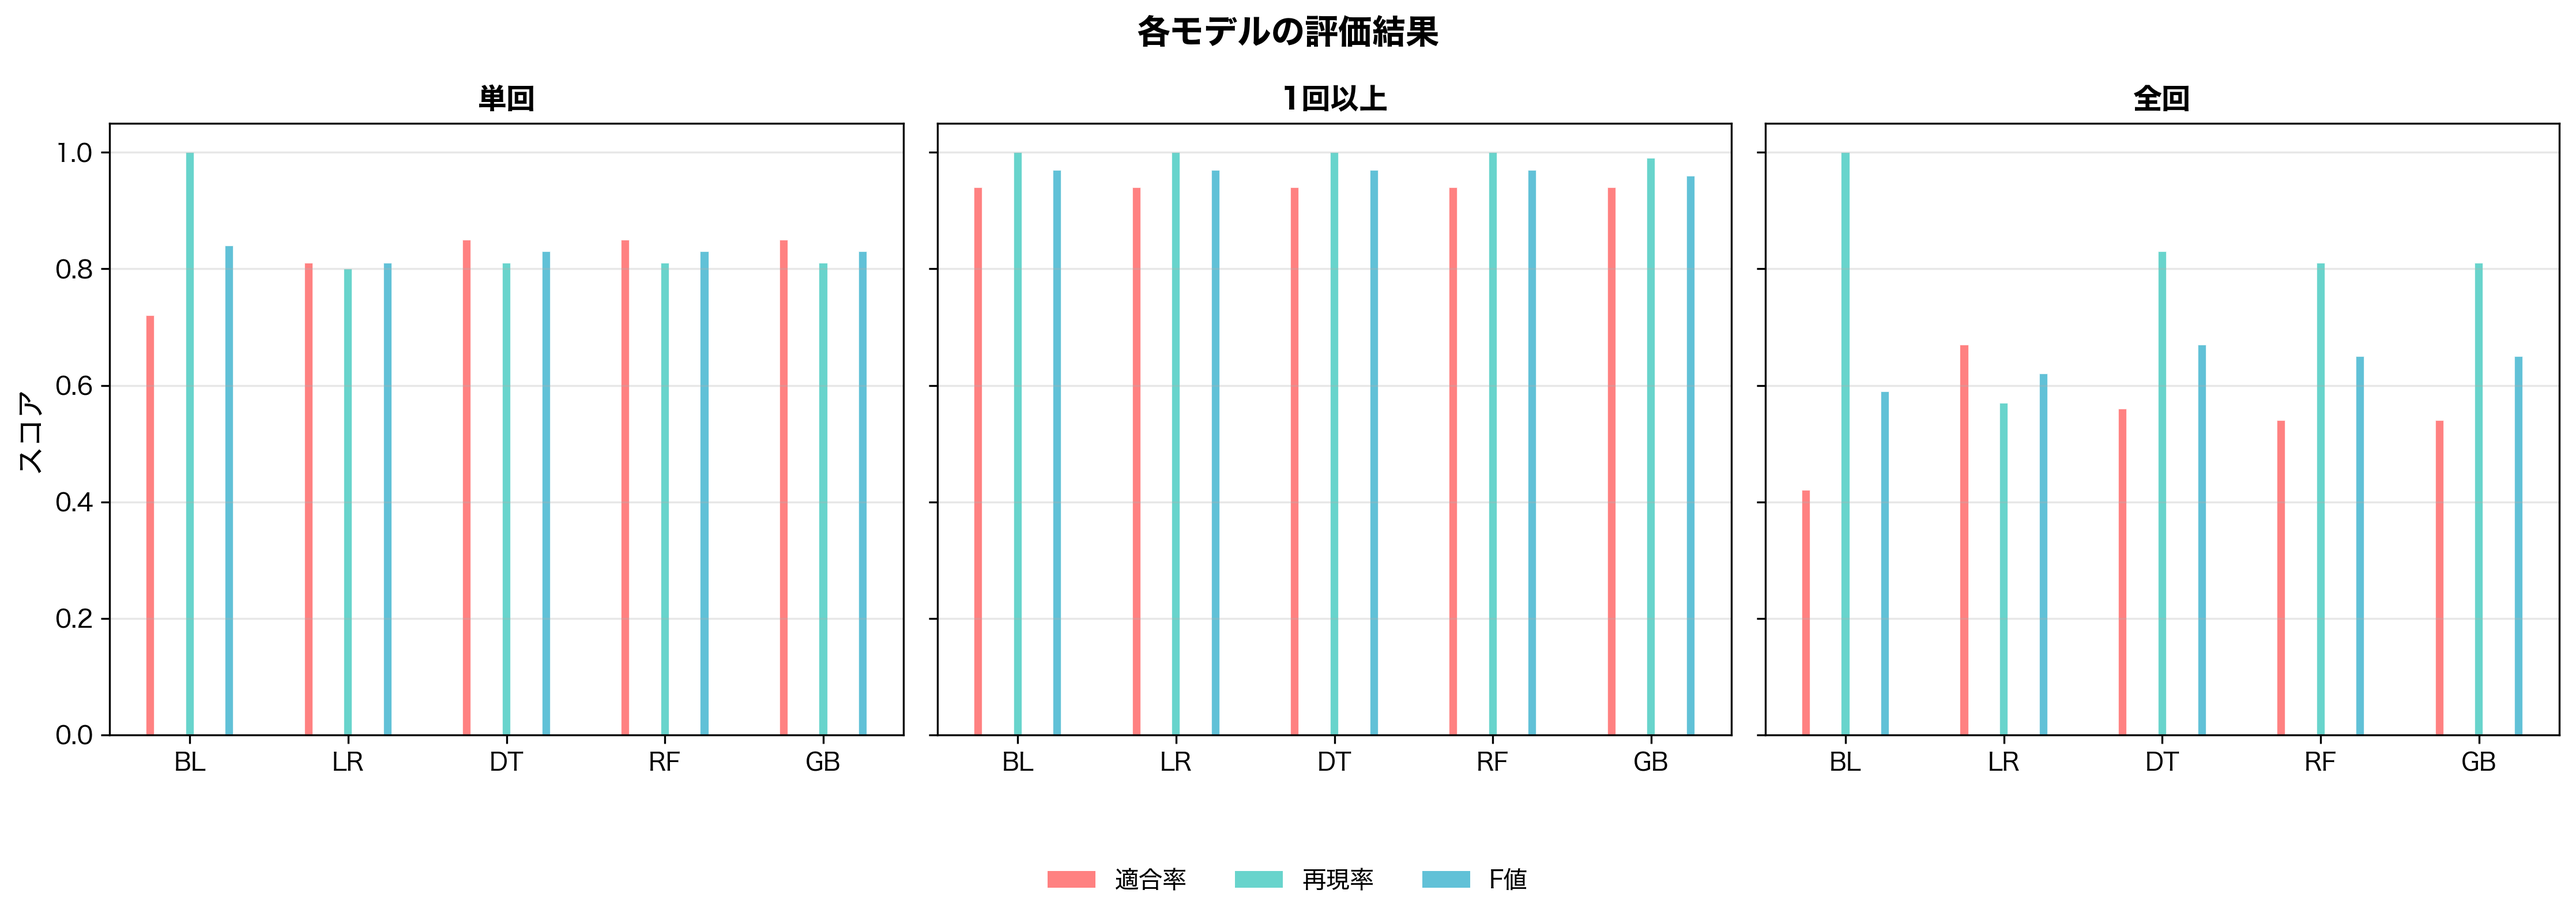
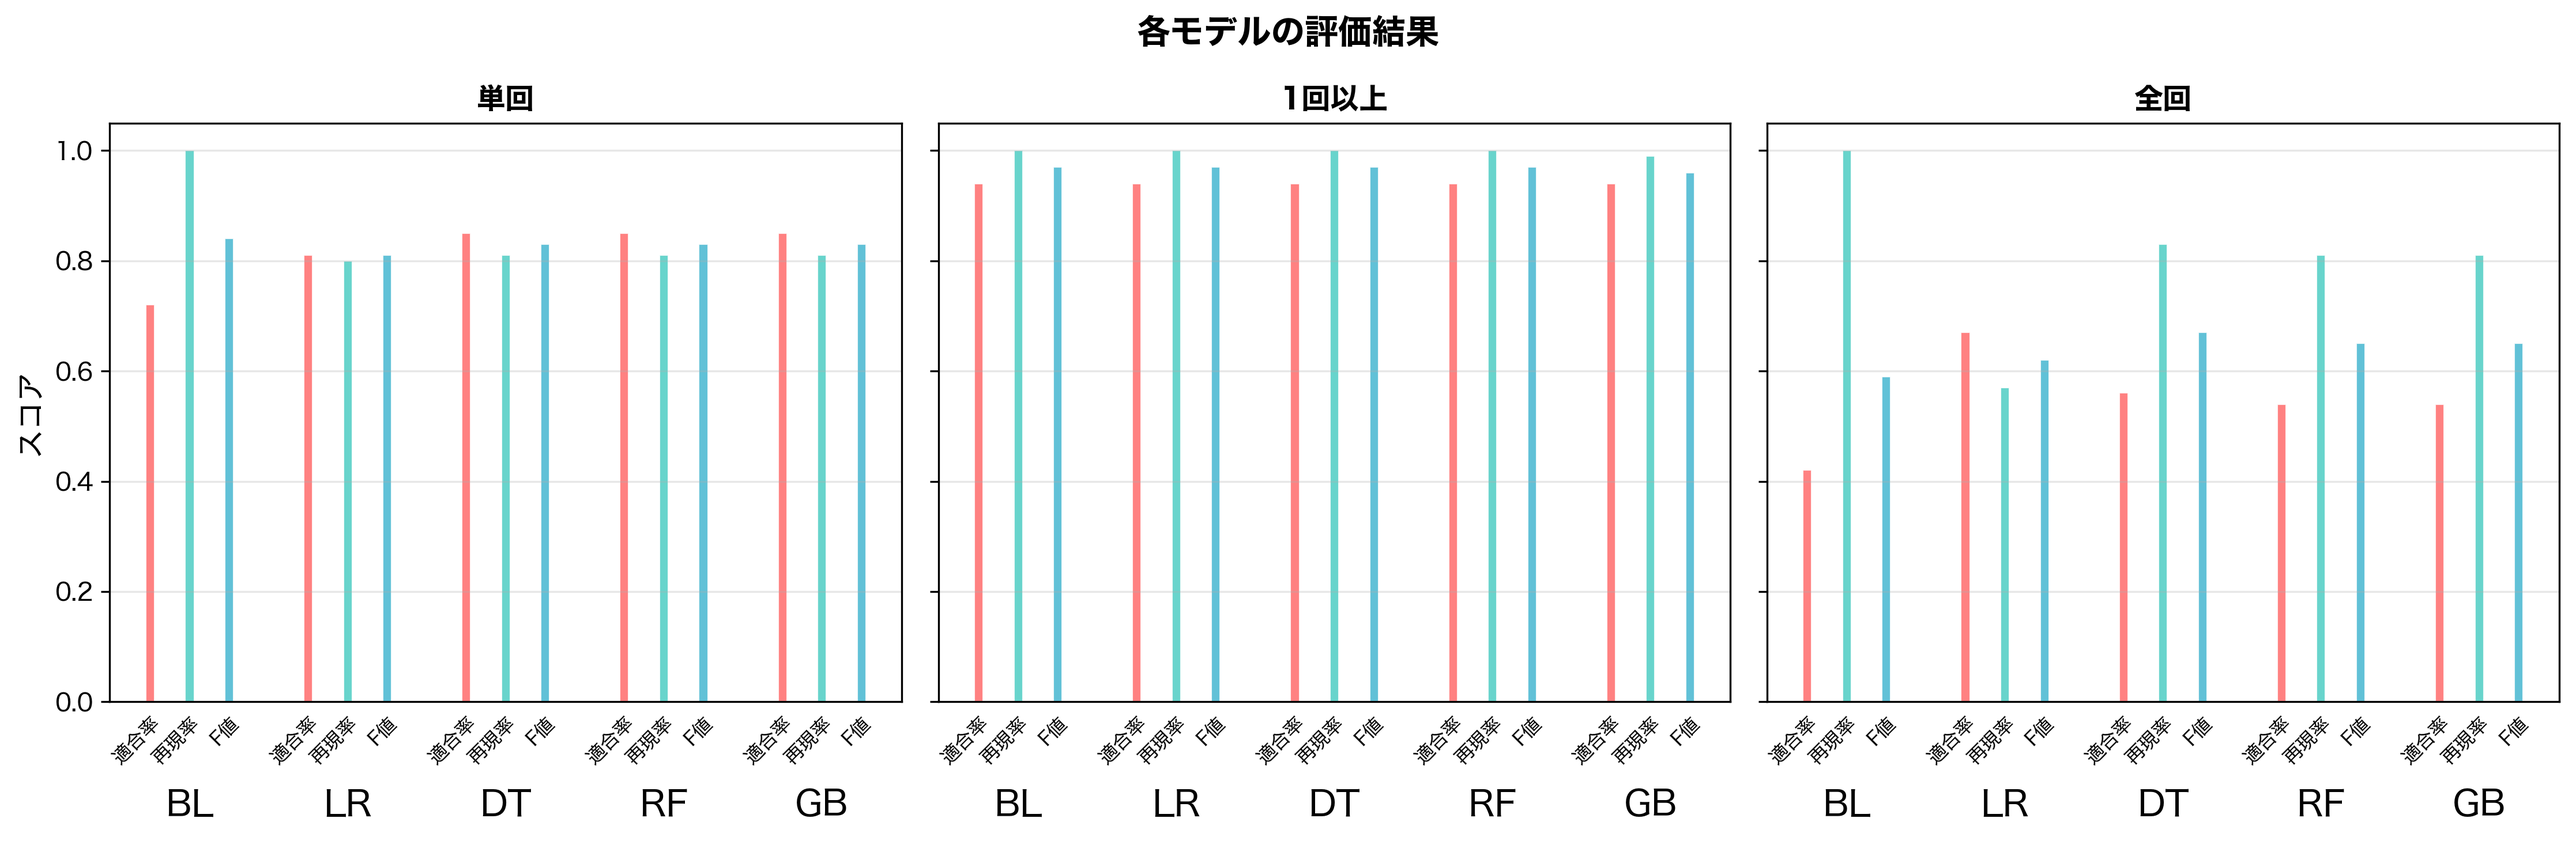
適合率とかが斜めるようにした

diff --git a/speedUpItem/plot_metrics_bar.py b/speedUpItem/plot_metrics_bar.py
@@ -17,7 +17,7 @@ import argparse
 from pathlib import Path
 
 import matplotlib.pyplot as plt
-import matplotlib.patches as mpatches
+import matplotlib.transforms as mtransforms
 
 # =============================================================================
 # 貼り付け用データ（compare_models.py の出力をここにコピー）
@@ -132,7 +132,7 @@ METRIC_LABELS = {
     "f1": "F値",
 }
 
-FIGURE_TITLE = "各モデルの評価結果"
+FIGURE_TITLE = "各モデルの評価結果(適用プロセス)"
 YLABEL = "スコア"
 YLIM = (0.0, 1.05)
 
@@ -141,6 +141,11 @@ METRIC_COLORS = ["#FF6B6B", "#4ECDC4", "#45B7D1"]
 BAR_ALPHA = 0.85
 GROUP_GAP = 1.0
 BAR_WIDTH = 0.22
+BAR_LABEL_FONTSIZE = 8
+BAR_LABEL_ROTATION = 45
+BAR_LABEL_Y = -0.02
+MODEL_LABEL_FONTSIZE = 15
+MODEL_LABEL_Y = -0.15
 
 OUTPUT_DIR = Path(__file__).resolve().parent / "figures"
 OUTPUT_BASENAME = "metrics_bar_all"
@@ -191,7 +196,14 @@ def _validate_scores(
 
 def _build_grouped_bar_data(
     target_scores: dict[str, dict[str, float]],
-) -> tuple[list[float], list[float], list[str], list[str], list[float]]:
+) -> tuple[
+    list[float],
+    list[float],
+    list[str],
+    list[float],
+    list[str],
+    list[str],
+]:
     """1 target 分のグループ化棒グラフ用データを生成する。"""
     n_metrics = len(METRIC_ORDER)
     group_stride = n_metrics + GROUP_GAP
@@ -199,6 +211,7 @@ def _build_grouped_bar_data(
     heights: list[float] = []
     positions: list[float] = []
     bar_colors: list[str] = []
+    bar_metric_keys: list[str] = []
     group_centers: list[float] = []
 
     for group_idx, model_name in enumerate(MODEL_ORDER):
@@ -209,9 +222,50 @@ def _build_grouped_bar_data(
             positions.append(group_start + metric_idx)
             heights.append(target_scores[model_name][metric_key])
             bar_colors.append(METRIC_COLORS[metric_idx])
+            bar_metric_keys.append(metric_key)
 
     tick_labels = [MODEL_LABELS.get(model, model) for model in MODEL_ORDER]
-    return heights, positions, bar_colors, tick_labels, group_centers
+    return heights, positions, bar_colors, group_centers, tick_labels, bar_metric_keys
+
+
+def _add_bar_metric_labels(
+    ax: plt.Axes,
+    positions: list[float],
+    metric_keys: list[str],
+) -> None:
+    """各棒の直下に指標ラベルを付ける（白黒印刷でも区別可能にする）。"""
+    label_transform = mtransforms.blended_transform_factory(ax.transData, ax.transAxes)
+    for pos, metric_key in zip(positions, metric_keys):
+        ax.text(
+            pos,
+            BAR_LABEL_Y,
+            METRIC_LABELS[metric_key],
+            ha="right",
+            va="top",
+            rotation=BAR_LABEL_ROTATION,
+            rotation_mode="anchor",
+            fontsize=BAR_LABEL_FONTSIZE,
+            transform=label_transform,
+        )
+
+
+def _add_model_labels(
+    ax: plt.Axes,
+    group_centers: list[float],
+    model_labels: list[str],
+) -> None:
+    """アルゴリズム名を指標ラベルの下に表示する。"""
+    label_transform = mtransforms.blended_transform_factory(ax.transData, ax.transAxes)
+    for pos, label in zip(group_centers, model_labels):
+        ax.text(
+            pos,
+            MODEL_LABEL_Y,
+            label,
+            ha="center",
+            va="top",
+            fontsize=MODEL_LABEL_FONTSIZE,
+            transform=label_transform,
+        )
 
 
 def plot_metrics_bar(
@@ -229,7 +283,7 @@ def plot_metrics_bar(
         axes = [axes]
 
     for ax, target in zip(axes, TARGET_ORDER):
-        heights, positions, bar_colors, tick_labels, group_centers = (
+        heights, positions, bar_colors, group_centers, tick_labels, bar_metric_keys = (
             _build_grouped_bar_data(metrics_scores[target])
         )
 
@@ -243,8 +297,9 @@ def plot_metrics_bar(
             linewidth=0.5,
         )
 
-        ax.set_xticks(group_centers)
-        ax.set_xticklabels(tick_labels)
+        ax.set_xticks([])
+        _add_bar_metric_labels(ax, positions, bar_metric_keys)
+        _add_model_labels(ax, group_centers, tick_labels)
         target_label = TARGET_LABELS.get(target, target)
         ax.set_title(target_label, fontsize=12, fontweight="bold")
         ax.set_ylim(*YLIM)
@@ -253,20 +308,7 @@ def plot_metrics_bar(
     axes[0].set_ylabel(YLABEL, fontsize=12)
     fig.suptitle(FIGURE_TITLE, fontsize=14, fontweight="bold")
 
-    legend_handles = [
-        mpatches.Patch(facecolor=color, alpha=BAR_ALPHA, label=METRIC_LABELS[metric_key])
-        for metric_key, color in zip(METRIC_ORDER, METRIC_COLORS)
-    ]
-    fig.legend(
-        handles=legend_handles,
-        loc="upper center",
-        bbox_to_anchor=(0.5, 0.02),
-        ncol=len(METRIC_ORDER),
-        frameon=False,
-    )
-
     fig.tight_layout()
-    fig.subplots_adjust(bottom=0.15)
 
     output_dir.mkdir(parents=True, exist_ok=True)
     saved_paths: list[Path] = []

diff --git a/tree-different/plot_metrics_boxplot.py b/tree-different/plot_metrics_boxplot.py
@@ -134,7 +134,7 @@ METRIC_LABELS = {
     "f1": "F値",
 }
 
-FIGURE_TITLE = "10分割交差検証の評価指標"
+FIGURE_TITLE = "各モデルの評価結果(モデル構築プロセス)"
 YLABEL = "スコア"
 YLIM = (0.0, 1.02)  # 1.0 ちょうどの箱ひげが上端で見えなくなるのを防ぐ
 
@@ -316,13 +316,13 @@ def plot_metrics_boxplot(
     #     mpatches.Patch(facecolor=color, alpha=BOX_ALPHA, label=METRIC_LABELS[metric_key])
     #     for metric_key, color in zip(METRIC_ORDER, METRIC_COLORS)
     # ]
-    fig.legend(
-        # handles=legend_handles,
-        loc="upper center",
-        bbox_to_anchor=(0.5, 0.02),
-        ncol=len(METRIC_ORDER),
-        frameon=False,
-    )
+    # fig.legend(
+    #     # handles=legend_handles,
+    #     loc="upper center",
+    #     bbox_to_anchor=(0.5, 0.02),
+    #     ncol=len(METRIC_ORDER),
+    #     frameon=False,
+    # )
 
     fig.tight_layout()
 
